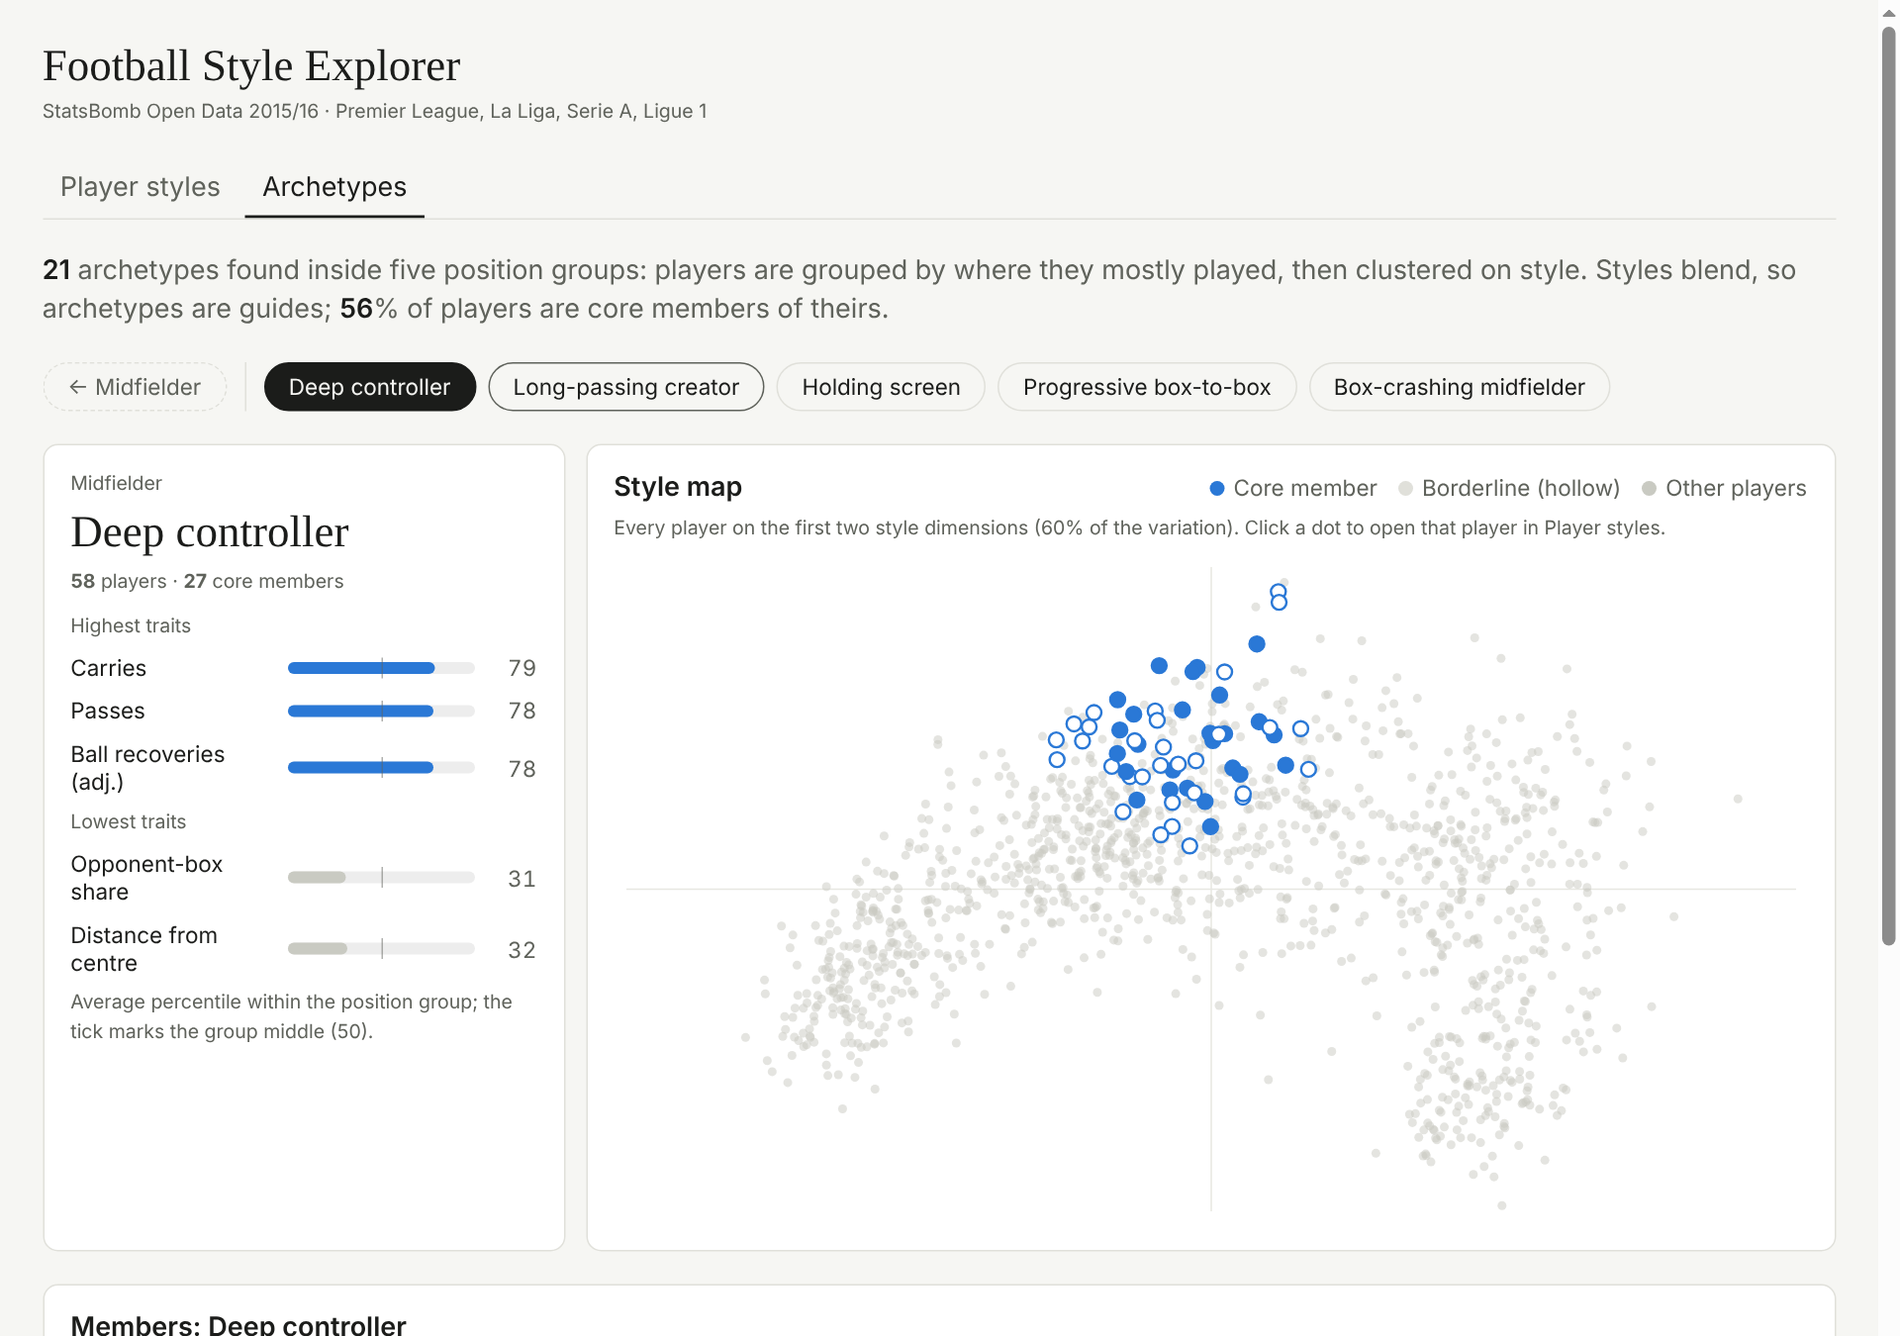
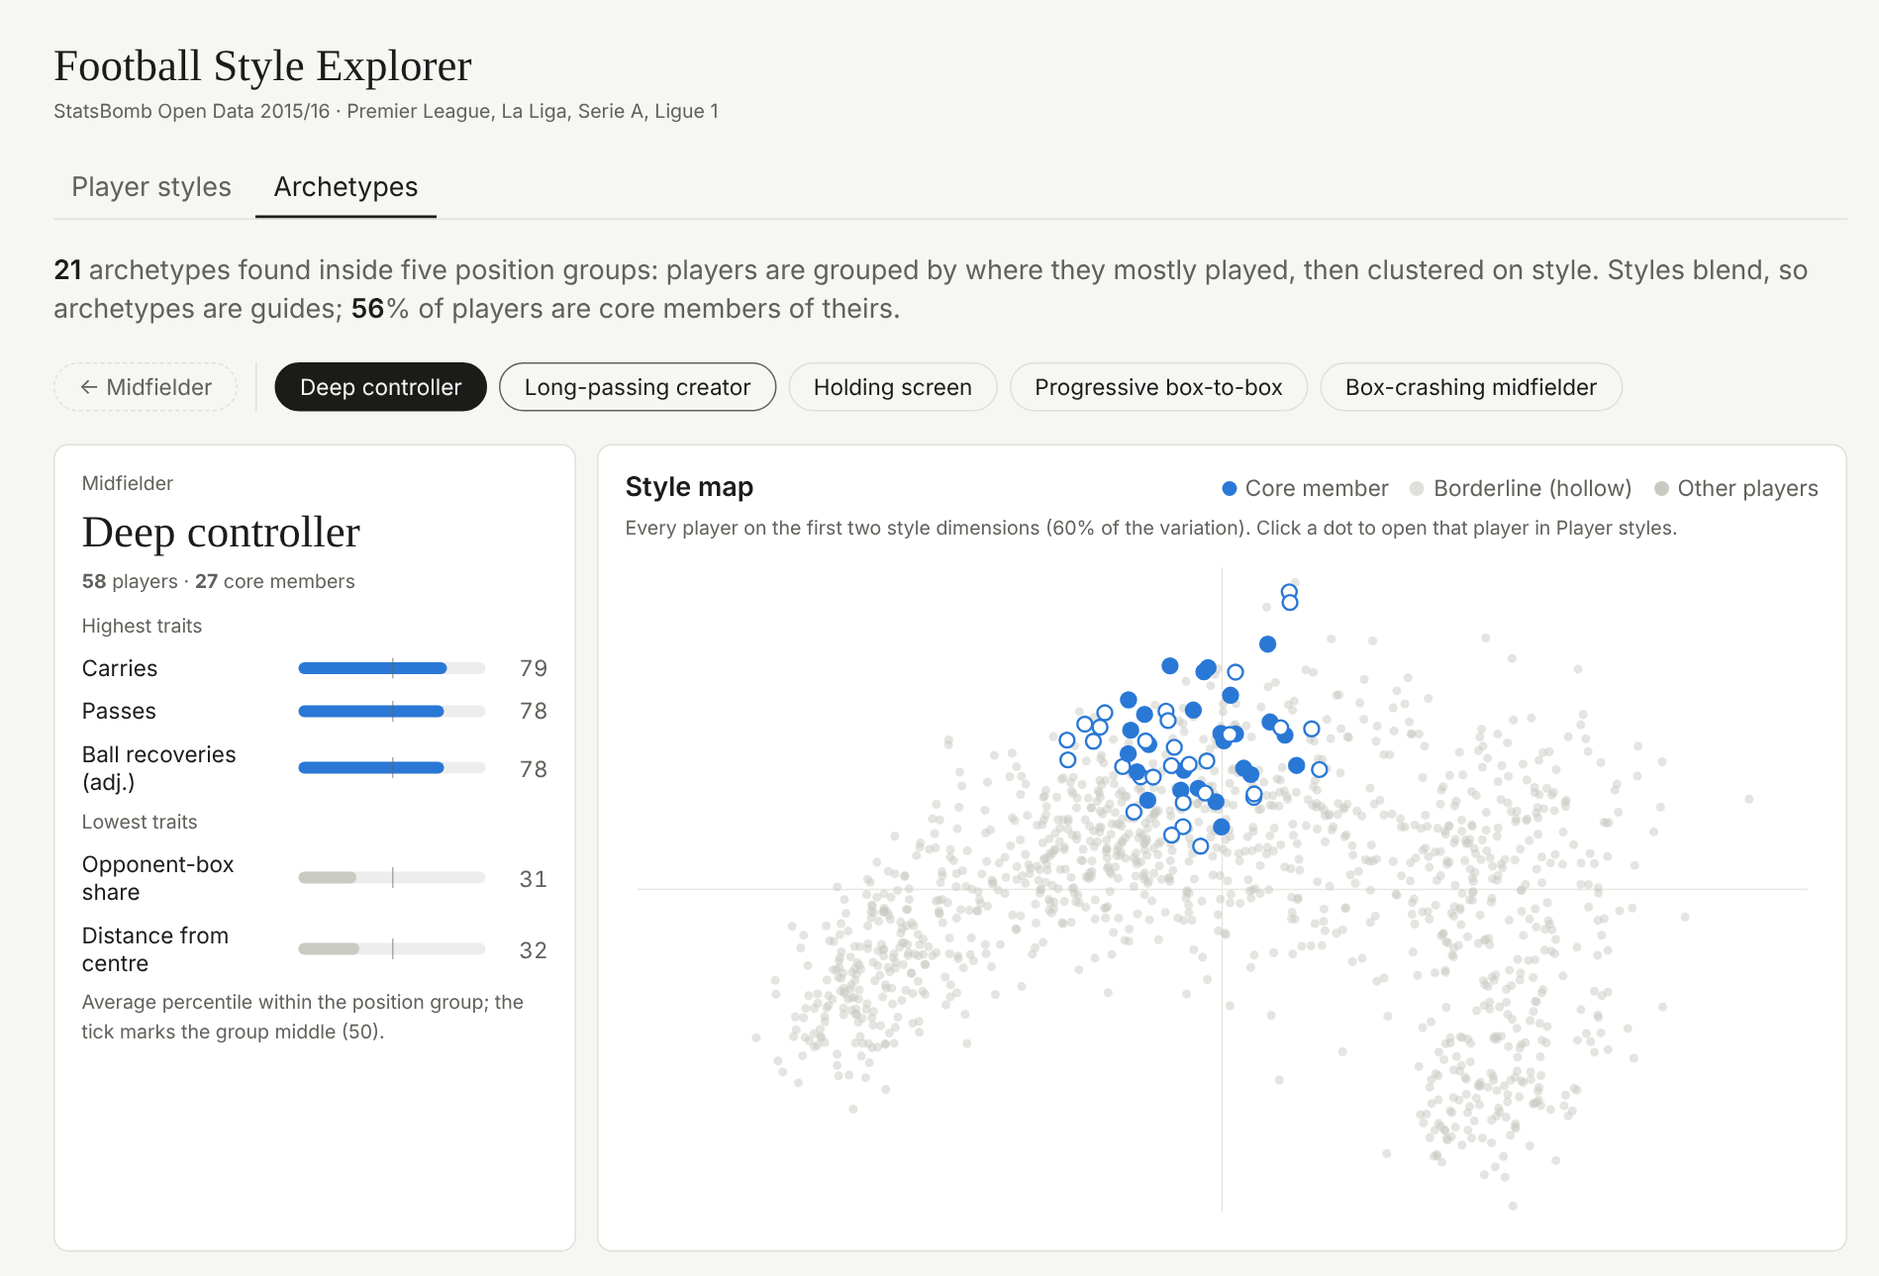
Selected player at top, compact comparison, refreshed screenshots

diff --git a/docs/index.html b/docs/index.html
@@ -138,15 +138,29 @@ window.dash = (() => {
 .ep .pill { align-self: flex-start; font-size: var(--cds-font-size-body); font-weight: 600; border-radius: 6px; padding: 3px 10px; background: color-mix(in srgb, var(--color-fg) 8%, transparent); }
 .ep .facts { display: grid; grid-template-columns: auto 1fr; gap: 6px 14px; font-size: var(--cds-font-size-body); margin: 4px 0 0; }
 .ep .facts dt { color: var(--color-fg-muted); } .ep .facts dd { margin: 0; font-variant-numeric: tabular-nums; min-width: 0; }
-/* comparison: radar | two pitches | explanation */
-.ep .cmp-grid { display: grid; grid-template-columns: minmax(0, 1.15fr) minmax(0, 0.9fr) minmax(0, 1fr); gap: var(--cds-gap-lg); align-items: start; }
-@media (max-width: 1000px) { .ep .cmp-grid { grid-template-columns: minmax(0, 1fr) minmax(0, 1fr); } .ep .cmp-grid .why { grid-column: 1 / -1; } }
-@media (max-width: 640px) { .ep .cmp-grid { grid-template-columns: minmax(0, 1fr); } }
-.ep .pitches { display: grid; gap: var(--cds-gap-sm); }
-.ep .pitch-label { font-size: var(--cds-font-size-caption); color: var(--color-fg-muted); display: flex; align-items: center; gap: 6px; }
-.ep .pitches .chart { min-height: 0; }
-.ep .why { display: grid; gap: var(--cds-gap-md); font-size: var(--cds-font-size-body); align-content: start; }
+/* selected-player banner: identity | facts */
+.ep .banner { display: grid; grid-template-columns: minmax(0, 17rem) minmax(0, 1fr); gap: var(--cds-gap-lg); align-items: center; }
+@media (max-width: 760px) { .ep .banner { grid-template-columns: minmax(0, 1fr); } }
+.ep .ident { display: flex; flex-direction: column; gap: 6px; padding-right: var(--cds-pad-lg); border-right: 1px solid var(--color-border-line); }
+@media (max-width: 760px) { .ep .ident { border-right: 0; padding-right: 0; } }
+.ep .bfacts { display: grid; grid-template-columns: repeat(auto-fit, minmax(min(100%, 9.5rem), 1fr)); gap: var(--cds-gap-md) var(--cds-gap-lg); }
+.ep .bfact { display: flex; flex-direction: column; gap: 2px; min-width: 0; }
+.ep .bfact .k { font-size: var(--cds-font-size-caption); color: var(--color-fg-muted); }
+.ep .bfact .v { font-size: var(--cds-font-size-body); font-variant-numeric: tabular-nums; }
+.ep .bfact .v b { font-weight: 600; }
+/* comparison: radar + two pitches in one row, then alike | differ */
+.ep .cmp-head { display: flex; flex-wrap: wrap; gap: var(--cds-gap-sm) var(--cds-gap-lg); align-items: center; justify-content: space-between; }
+.ep .cmp-pick { display: flex; flex-wrap: wrap; align-items: center; gap: var(--cds-gap-sm); }
+.ep .cmp-pick select { font: inherit; font-size: var(--cds-font-size-body); color: var(--color-fg); background: var(--color-bg); border: 1px solid var(--color-border-line); border-radius: var(--cds-radius); padding: 6px 10px; max-width: 100%; }
+.ep .cmp-grid { display: grid; grid-template-columns: minmax(0, 1.05fr) minmax(0, 1fr) minmax(0, 1fr); gap: var(--cds-gap-lg); align-items: center; }
+@media (max-width: 1000px) { .ep .cmp-grid { grid-template-columns: minmax(0, 1fr) minmax(0, 1fr); } .ep .cmp-grid .radar-cell { grid-column: 1 / -1; max-width: 30rem; justify-self: center; width: 100%; } }
+@media (max-width: 560px) { .ep .cmp-grid { grid-template-columns: minmax(0, 1fr); } }
+.ep .pitch-cell { display: flex; flex-direction: column; gap: 6px; }
+.ep .pitch-label { font-size: var(--cds-font-size-body); display: flex; align-items: center; gap: 2px; }
+.ep .pitch-cell .chart { min-height: 0; }
+.ep .why { display: grid; grid-template-columns: repeat(auto-fit, minmax(min(100%, 18rem), 1fr)); gap: var(--cds-gap-md) var(--cds-gap-lg); font-size: var(--cds-font-size-body); padding-top: var(--cds-pad-md); border-top: 1px solid var(--color-border-line); }
 .ep .why ul { margin: 4px 0 0; padding-left: 18px; display: grid; gap: 4px; }
+.ep .cmp-foot { display: flex; flex-wrap: wrap; gap: var(--cds-gap-sm) var(--cds-gap-lg); align-items: center; justify-content: space-between; }
 /* archetypes */
 .ep .pbar { display: grid; grid-template-columns: minmax(0, 1fr) minmax(5rem, 40%) 2rem; gap: 10px; align-items: center; font-size: var(--cds-font-size-body); }
 .ep .pbar .track { height: 8px; border-radius: 4px; background: color-mix(in srgb, var(--color-fg) 8%, transparent); position: relative; }
@@ -190,32 +204,33 @@ window.dash = (() => {
     <button class="chip" id="sb-samegroup" aria-pressed="false">Same position group</button>
   </div>
 
+  <div class="card banner" id="sb-card" aria-label="Selected player"></div>
+
   <div class="card" id="sb-cmp">
-    <div class="controls" style="justify-content:space-between"><h2 id="sb-cmp-title">Comparison</h2><div class="legend" id="sb-cmp-legend"></div></div>
-    <div class="cmp-grid">
-      <div class="chart" id="sb-radar" data-source="sb_players sb_features"></div>
-      <div class="pitches" id="sb-pitches" data-source="sb_players">
-        <p class="muted">Where they act: share of on-ball actions by zone, attacking left to right.</p>
-        <div><div class="pitch-label" id="sb-pa-label"></div><div class="chart" id="sb-pa"></div></div>
-        <div><div class="pitch-label" id="sb-pb-label"></div><div class="chart" id="sb-pb"></div></div>
-      </div>
-      <div class="why" id="sb-why"></div>
+    <div class="cmp-head">
+      <div class="cmp-pick"><h2 id="sb-cmp-title">Compare with</h2><select id="sb-cmp-select" aria-label="Player to compare with"></select></div>
+      <div class="legend" id="sb-cmp-legend"></div>
     </div>
+    <div class="cmp-grid">
+      <div class="chart radar-cell" id="sb-radar" data-source="sb_players sb_features"></div>
+      <div class="pitch-cell"><div class="pitch-label" id="sb-pa-label"></div><div class="chart" id="sb-pa" data-source="sb_players"></div></div>
+      <div class="pitch-cell"><div class="pitch-label" id="sb-pb-label"></div><div class="chart" id="sb-pb" data-source="sb_players"></div></div>
+    </div>
+    <p class="muted" style="margin-top:-4px">Radar: percentile among all eligible outfield players. Pitches: share of each player's on-ball actions by zone, attacking left to right.</p>
+    <div class="why" id="sb-why"></div>
+    <div class="cmp-foot"><p class="muted">Defensive counts are adjusted for team possession.</p><button class="chip" id="sb-open">Open profile</button></div>
   </div>
 
-  <div class="row2">
-    <div class="card" id="sb-card"></div>
-    <div class="card" id="sb-nb-card">
-      <h2>Most similar styles</h2>
-      <p class="muted"><b>Match %</b>: 100 = identical profile, 0 = as different as two random players. <b>Holds up %</b>: how often the player stays in the top 5 when the season's matches are resampled (green ≥ 60, amber 30–59, grey &lt; 30). Click a row to compare.</p>
-      <div class="tbl-wrap">
-        <table id="sb-nb" data-source="sb_neighbours" data-row-key="player_id,rank">
-          <thead><tr><th data-field="rank">#</th><th class="txt" data-field="neighbour">Player</th><th class="txt hide-narrow" data-field="neighbour_team">Team</th><th class="txt hide-narrow" data-field="neighbour_archetype">Archetype</th><th data-field="match_pct">Match %</th><th data-field="holds_up_pct">Holds up %</th></tr></thead>
-          <tbody></tbody>
-        </table>
-      </div>
-      <p class="muted" id="sb-nb-note"></p>
+  <div class="card" id="sb-nb-card">
+    <h2>Most similar styles</h2>
+    <p class="muted"><b>Match %</b>: 100 = identical profile, 0 = as different as two random players. <b>Holds up %</b>: how often the player stays in the top 5 when the season's matches are resampled (green ≥ 60, amber 30–59, grey &lt; 30). Click a row to compare.</p>
+    <div class="tbl-wrap">
+      <table id="sb-nb" data-source="sb_neighbours" data-row-key="player_id,rank">
+        <thead><tr><th data-field="rank">#</th><th class="txt" data-field="neighbour">Player</th><th class="txt hide-narrow" data-field="neighbour_team">Team</th><th class="txt hide-narrow" data-field="neighbour_league">League</th><th class="txt hide-narrow" data-field="neighbour_archetype">Archetype</th><th data-field="match_pct">Match %</th><th data-field="holds_up_pct">Holds up %</th></tr></thead>
+        <tbody></tbody>
+      </table>
     </div>
+    <p class="muted" id="sb-nb-note"></p>
   </div>
 
   <div class="card" id="sb-trust">
@@ -352,6 +367,8 @@ window.dash = (() => {
     $('sb-exteam').addEventListener('click', () => { P.cmp = null; dash.setParams({ sb_exteam: !SB().exTeam }); });
     $('sb-samegroup').addEventListener('click', () => { P.cmp = null; dash.setParams({ sb_samegroup: !SB().sameGroup }); });
     $('sb-nb').addEventListener('click', (e) => { const tr = e.target.closest('tr[data-nid]'); if (tr) { P.cmp = Number(tr.dataset.nid); drawStyles(); } });
+    $('sb-cmp-select').addEventListener('change', (e) => { P.cmp = Number(e.target.value); drawStyles(); });
+    $('sb-open').addEventListener('click', () => { const id = P.cmp; if (id) { P.cmp = null; dash.setParams({ player: id }); window.scrollTo({ top: 0, behavior: 'smooth' }); } });
   }
   const stabColor = (v) => v >= 60 ? 'var(--color-ok)' : v >= 30 ? 'var(--color-warn)' : 'var(--color-fg-muted)';
   function drawStyles() {
@@ -367,7 +384,7 @@ window.dash = (() => {
     const all = P.nb ? (P.nb.get(p.id) || []) : null;
     if (!all) {
       tb.replaceChildren();
-      if (BAD.includes(dash.data('sb_neighbours').status)) { const tr = mk('tr'); const c = mk('td', 'muted', 'Failed to load'); c.colSpan = 6; tr.append(c); tb.append(tr); }
+      if (BAD.includes(dash.data('sb_neighbours').status)) { const tr = mk('tr'); const c = mk('td', 'muted', 'Failed to load'); c.colSpan = 7; tr.append(c); tb.append(tr); }
       else wrap.classList.add('dash-skeleton');
       $('sb-cmp').hidden = true; return;
     }
@@ -381,32 +398,38 @@ window.dash = (() => {
       tr.dataset.key = encodeURIComponent(n.player_id) + ',' + encodeURIComponent(n.rank); tr.dataset.nid = n.neighbour_id; tr.tabIndex = 0;
       tr.addEventListener('keydown', (e) => { if (e.key === 'Enter') { P.cmp = n.neighbour_id; drawStyles(); } });
       const td = (t, cls) => { const c = mk('td', cls, t); tr.appendChild(c); return c; };
-      td(String(n.rank)); td(n.neighbour, 'txt'); td(n.neighbour_team, 'txt hide-narrow'); td(n.neighbour_archetype, 'txt hide-narrow wrap');
+      td(String(n.rank)); td(n.neighbour, 'txt'); td(n.neighbour_team, 'txt hide-narrow'); td(n.neighbour_league, 'txt hide-narrow'); td(n.neighbour_archetype, 'txt hide-narrow wrap');
       td(String(n.match_pct));
       const h = td(''); const d = mk('span', 'dot'); d.style.background = stabColor(n.holds_up_pct); h.append(d, document.createTextNode(String(n.holds_up_pct)));
       return tr;
     }));
-    if (!list.length) { const tr = mk('tr'); const c = mk('td', 'muted', 'No player among the 25 nearest matches these filters. Loosen a filter.'); c.colSpan = 6; tr.appendChild(c); tb.replaceChildren(tr); }
+    if (!list.length) { const tr = mk('tr'); const c = mk('td', 'muted', 'No player among the 25 nearest matches these filters. Loosen a filter.'); c.colSpan = 7; tr.appendChild(c); tb.replaceChildren(tr); }
     $('sb-nb-note').textContent = list.length && list.length < 10 ? `Only ${list.length} of the 25 nearest pass these filters.` : '';
+    const csel = $('sb-cmp-select');
+    csel.replaceChildren(...list.map((n) => new Option(`${n.rank}. ${n.neighbour} · ${n.match_pct}% match`, n.neighbour_id)));
+    if (P.cmp) csel.value = String(P.cmp);
     drawCompare(p, P.byId.get(P.cmp));
   }
   function drawCard(p) {
     const card = $('sb-card'); card.classList.remove('dash-skeleton');
     const w = 'id=' + p.id;
     const val = (field, text, tag = 'b') => { const b = mk(tag, null, text); b.setAttribute('data-source', 'sb_players'); b.setAttribute('data-field', field); b.setAttribute('data-where', w); return b; };
-    const dl = mk('dl', 'facts');
-    const add = (k, ...nodes) => { const dd = mk('dd'); nodes.forEach((n) => dd.append(n)); dl.append(mk('dt', null, k), dd); };
-    add('Team', val('teams', p.teams)); add('League', val('league', p.league)); add('Main position', val('position', p.position));
-    add('Minutes', val('minutes', comma(p.minutes)));
-    add('Archetype kept', val('archetype_stability', String(p.archetype_stability)), '% of resamples');
-    if (p.team_possession != null) add('Team possession', val('team_possession', String(p.team_possession)), '%');
-    add('Output', val('goals', String(p.goals)), ' goals · ', val('npxg90', fmt2(p.npxg90)), ' npxG/90');
-    if (p.pass_pct != null) add('Pass completion', val('pass_pct', String(p.pass_pct)), '%');
+    const ident = mk('div', 'ident');
+    const grp = val('group', p.group, 'span'); grp.className = 'muted';
     const name = mk('div', 'pname'); name.append(val('name', p.name, 'span'));
     const arch = val('archetype', p.archetype, 'span'); arch.className = 'pill';
-    const grp = val('group', p.group, 'span'); grp.className = 'muted';
-    card.replaceChildren(grp, name, arch, dl,
-      mk('p', 'muted', 'Output and completion are context only, not used for similarity.' + (/true/i.test(String(p.lineup_flag)) ? ' One of this player\'s lineups had a StatsBomb inconsistency.' : '')));
+    const top = mk('span', 'muted', 'Selected player · '); top.append(grp);
+    ident.append(top, name, arch);
+    const facts = mk('div', 'bfacts');
+    const fact = (k, ...nodes) => { const f = mk('div', 'bfact'); const v = mk('span', 'v'); nodes.forEach((n) => v.append(n)); f.append(mk('span', 'k', k), v); facts.append(f); };
+    fact('Team', val('teams', p.teams)); fact('League', val('league', p.league)); fact('Main position', val('position', p.position));
+    fact('Minutes', val('minutes', comma(p.minutes)));
+    fact('Archetype kept', val('archetype_stability', String(p.archetype_stability)), '% of resamples');
+    if (p.team_possession != null) fact('Team possession', val('team_possession', String(p.team_possession)), '%');
+    fact('Output (context)', val('goals', String(p.goals)), p.goals === 1 ? ' goal · ' : ' goals · ', val('npxg90', fmt2(p.npxg90)), ' npxG/90');
+    if (p.pass_pct != null) fact('Pass completion (context)', val('pass_pct', String(p.pass_pct)), '%');
+    card.replaceChildren(ident, facts);
+    card.title = /true/i.test(String(p.lineup_flag)) ? 'One of this player\'s lineups had a StatsBomb inconsistency.' : '';
   }
   function drawPitch(host, p, color) {
     host.replaceChildren();
@@ -440,12 +463,12 @@ window.dash = (() => {
     if (!ready('sb_features')) { state($('sb-radar'), 'sb_features'); return; }
     const feats = dash.data('sb_features').data; const lab = Object.fromEntries(feats.map((f) => [f.key, f.label]));
     const cA = dash.colors[0], cB = dash.colors[1];
-    $('sb-cmp-title').textContent = `${a.name} vs ${b.name}`;
+    $('sb-open').textContent = `Open ${b.name}'s profile`;
     $('sb-cmp-legend').replaceChildren(swatch(cA, a.name), swatch(cB, b.name));
     const host = $('sb-radar'); host.classList.remove('dash-skeleton'); host.replaceChildren();
     const keys = ['passes90', 'prog_passes90', 'prog_carries90', 'dribbles90', 'shots90', 'pressures90', 'tackles90', 'aerials90'];
     const SH = { passes90: 'Passes', prog_passes90: 'Prog. passes', prog_carries90: 'Prog. carries', dribbles90: 'Take-ons', shots90: 'Shots', pressures90: 'Pressures', tackles90: 'Tackles', aerials90: 'Aerials' };
-    const W = 400, H = 300, cx = W / 2, cy = H / 2 + 2, R = 102, n = keys.length;
+    const W = 400, H = 270, cx = W / 2, cy = H / 2 + 2, R = 96, n = keys.length;
     const svg = d3.select(host).append('svg').attr('width', '100%').attr('viewBox', `0 0 ${W} ${H}`).attr('role', 'img').attr('aria-label', `Radar of ${a.name} and ${b.name}`);
     const ang = (i) => -Math.PI / 2 + i / n * 2 * Math.PI;
     [25, 50, 75, 100].forEach((r) => svg.append('polygon').attr('points', keys.map((_, i) => [cx + Math.cos(ang(i)) * R * r / 100, cy + Math.sin(ang(i)) * R * r / 100].join(',')).join(' ')).attr('fill', 'none').attr('stroke', 'var(--cds-chart-grid)').attr('stroke-width', r === 50 ? 1.5 : 1));
@@ -463,8 +486,7 @@ window.dash = (() => {
         .on('pointerenter', () => { tipLine(tip, lab[keys[i]], [[col, p.name, 'percentile ' + p['p_' + keys[i]]]]); placeTip(tip, host, x * host.clientWidth / W, y * host.clientWidth / W); })
         .on('pointerleave', () => { tip.hidden = true; }));
     });
-    $('sb-pitches').classList.remove('dash-skeleton');
-    const lbl = (el, p, c) => { const d = mk('span', 'dot'); d.style.background = c; el.replaceChildren(d, document.createTextNode(p.name)); };
+    const lbl = (el, p, c) => { const d = mk('span', 'dot'); d.style.background = c; el.replaceChildren(d, mk('b', null, p.name), mk('span', 'muted', '\u00a0· where they act')); };
     lbl($('sb-pa-label'), a, cA); lbl($('sb-pb-label'), b, cB);
     drawPitch($('sb-pa'), a, cA); drawPitch($('sb-pb'), b, cB);
     const ks = feats.map((f) => f.key).filter((k) => a['p_' + k] != null && b['p_' + k] != null);
@@ -481,9 +503,7 @@ window.dash = (() => {
     const diff = mk('div'); diff.append(mk('h3', null, 'Differ most'));
     const ul2 = mk('ul'); apart.forEach((x) => ul2.append(li([`${x.b > x.a ? b.name : a.name} has more ${lab[x.k].toLowerCase()} (`, v(a, x.k), ' vs ', v(b, x.k), ')'])));
     diff.append(ul2);
-    const open = mk('button', 'chip', `Open ${b.name}`); open.style.justifySelf = 'start';
-    open.addEventListener('click', () => { P.cmp = null; dash.setParams({ player: b.id }); });
-    $('sb-why').replaceChildren(alike, diff, mk('p', 'muted', 'Percentiles among all eligible outfield players; defensive counts adjusted for team possession.'), open);
+    $('sb-why').replaceChildren(alike, diff);
   }
 
   // ================= ARCHETYPES =================

diff --git a/README.md b/README.md
@@ -4,7 +4,7 @@
 
 **[▶ Open the live explorer](https://markisinc.github.io/football-player-archetypes/)** · [Methodology](docs/METHODOLOGY.md)
 
-![Similar-player search: N'Golo Kanté compared with his closest match, with radar, action-zone pitches and what is alike or different](docs/images/similar-players.png)
+![Similar-player search: the selected player at the top, then a comparison with his closest match (radar, action-zone pitches, what is alike or different)](docs/images/similar-players.png)
 
 ## What it does
 
@@ -12,9 +12,9 @@
 - **Archetypes.** 21 styles found *within* five position groups, such as *Ball-playing centre-back*, *Deep controller*, *Dribbling winger* and *Mobile front-line finisher*. Each player is marked as a core or borderline member.
 - **Style map.** Every player on the two main style dimensions, with the selected archetype highlighted. Click a dot to explore that player.
 
-| Archetypes and style map | Player profile and closest matches |
+| Archetypes and style map | Closest matches |
 |---|---|
-| ![Midfielder archetypes: the Deep controller profile and where its members sit on the style map](docs/images/archetypes.png) | ![N'Golo Kanté's profile and his 10 most similar styles, with match and holds-up scores](docs/images/similar-table.png) |
+| ![Midfielder archetypes: the Deep controller profile and where its members sit on the style map](docs/images/archetypes.png) | ![N'Golo Kanté's 10 most similar styles, with match and holds-up scores](docs/images/similar-table.png) |
 
 ## Key results
 
